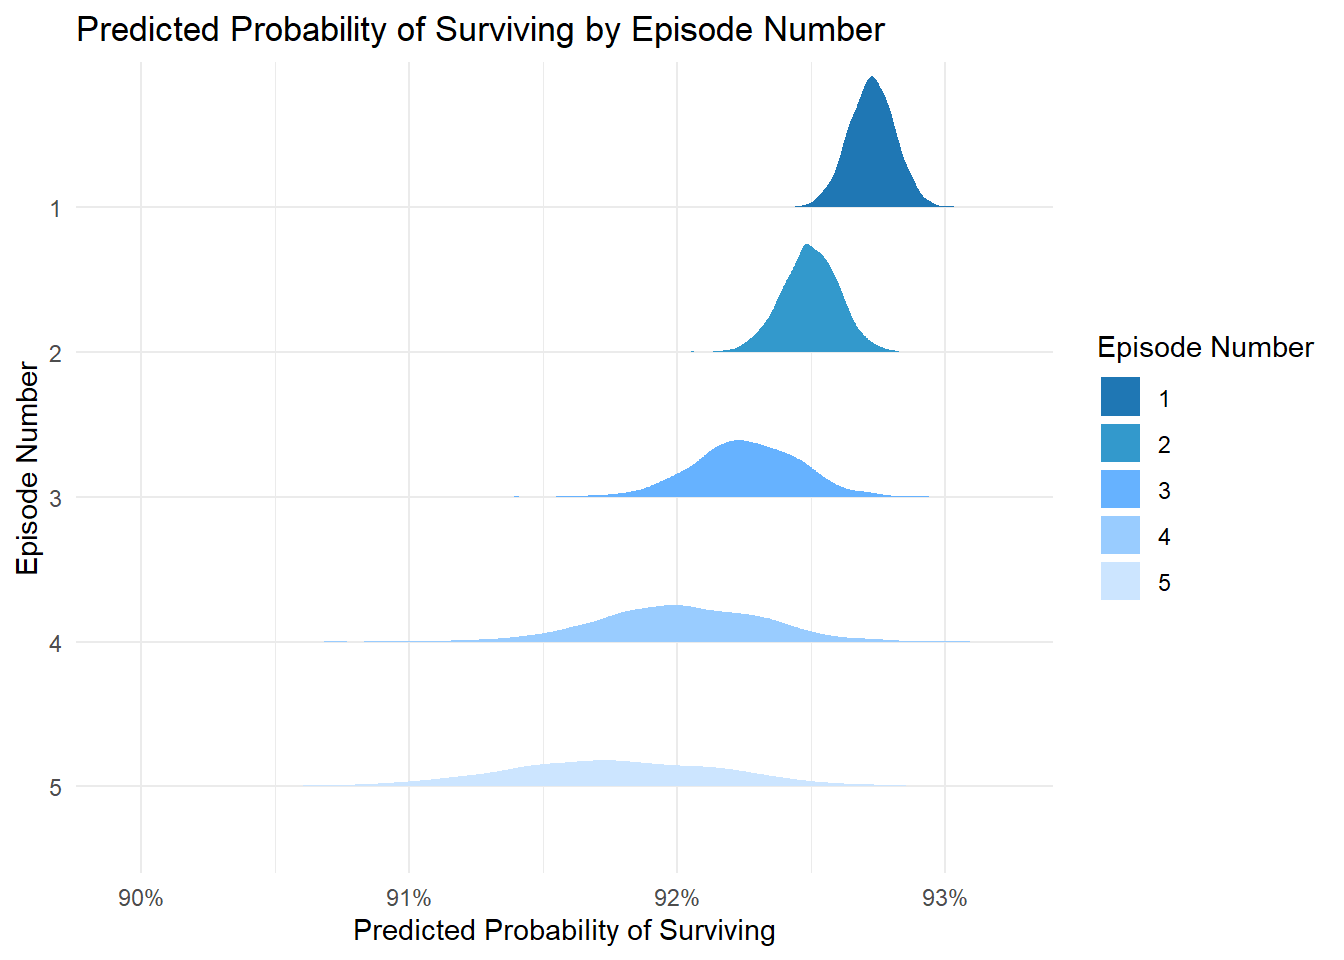
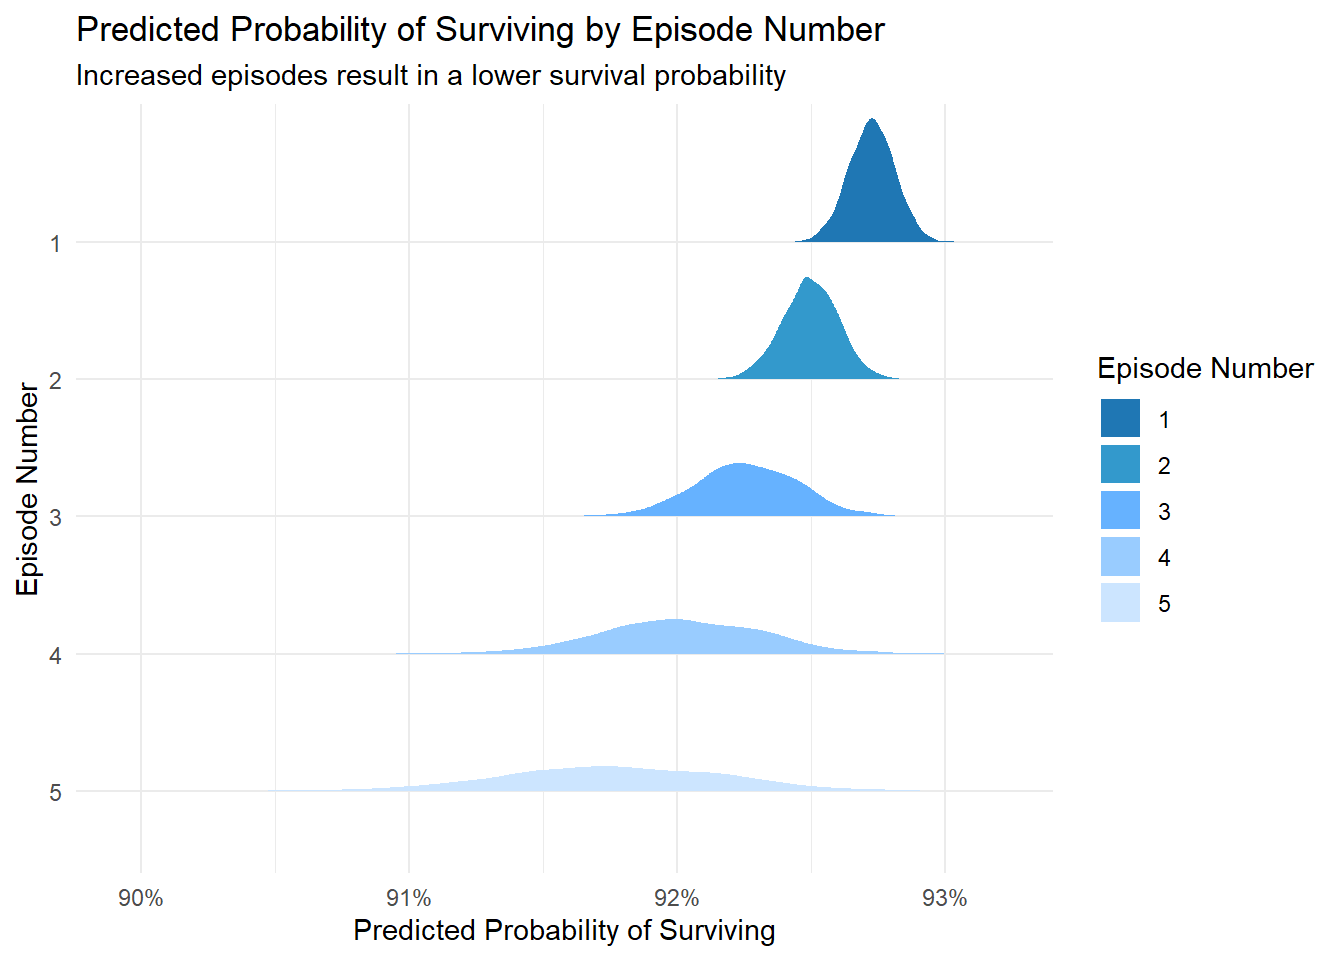
Built site for gh-pages

diff --git a/episode-graph.html b/episode-graph.html
@@ -767,14 +767,15 @@ contain underscores: term naming may be unreliable!</code></pre>
 <span id="cb7-18"><a href="#cb7-18" aria-hidden="true" tabindex="-1"></a>  <span class="co"># Add labels</span></span>
 <span id="cb7-19"><a href="#cb7-19" aria-hidden="true" tabindex="-1"></a>  <span class="fu">labs</span>(</span>
 <span id="cb7-20"><a href="#cb7-20" aria-hidden="true" tabindex="-1"></a>    <span class="at">title =</span> <span class="st">"Predicted Probability of Surviving by Episode Number"</span>,</span>
-<span id="cb7-21"><a href="#cb7-21" aria-hidden="true" tabindex="-1"></a>    <span class="at">x =</span> <span class="st">"Predicted Probability of Surviving"</span>,</span>
-<span id="cb7-22"><a href="#cb7-22" aria-hidden="true" tabindex="-1"></a>    <span class="at">y =</span> <span class="st">"Episode Number"</span>,</span>
-<span id="cb7-23"><a href="#cb7-23" aria-hidden="true" tabindex="-1"></a>    <span class="at">fill =</span> <span class="st">"Episode Number"</span></span>
-<span id="cb7-24"><a href="#cb7-24" aria-hidden="true" tabindex="-1"></a>  ) <span class="sc">+</span></span>
-<span id="cb7-25"><a href="#cb7-25" aria-hidden="true" tabindex="-1"></a>  <span class="co"># Change x-axis to percent format</span></span>
-<span id="cb7-26"><a href="#cb7-26" aria-hidden="true" tabindex="-1"></a>  <span class="fu">scale_x_continuous</span>(<span class="at">labels =</span> scales<span class="sc">::</span><span class="fu">percent_format</span>(<span class="at">accuracy =</span> <span class="dv">1</span>)) <span class="sc">+</span></span>
-<span id="cb7-27"><a href="#cb7-27" aria-hidden="true" tabindex="-1"></a>  <span class="co"># Change background to be cleaner</span></span>
-<span id="cb7-28"><a href="#cb7-28" aria-hidden="true" tabindex="-1"></a>  <span class="fu">theme_minimal</span>()</span></code><button title="Copy to Clipboard" class="code-copy-button"><i class="bi"></i></button></pre></div>
+<span id="cb7-21"><a href="#cb7-21" aria-hidden="true" tabindex="-1"></a>    <span class="at">subtitle =</span> <span class="st">"Increased episodes result in a lower survival probability"</span>,</span>
+<span id="cb7-22"><a href="#cb7-22" aria-hidden="true" tabindex="-1"></a>    <span class="at">x =</span> <span class="st">"Predicted Probability of Surviving"</span>,</span>
+<span id="cb7-23"><a href="#cb7-23" aria-hidden="true" tabindex="-1"></a>    <span class="at">y =</span> <span class="st">"Episode Number"</span>,</span>
+<span id="cb7-24"><a href="#cb7-24" aria-hidden="true" tabindex="-1"></a>    <span class="at">fill =</span> <span class="st">"Episode Number"</span></span>
+<span id="cb7-25"><a href="#cb7-25" aria-hidden="true" tabindex="-1"></a>  ) <span class="sc">+</span></span>
+<span id="cb7-26"><a href="#cb7-26" aria-hidden="true" tabindex="-1"></a>  <span class="co"># Change x-axis to percent format</span></span>
+<span id="cb7-27"><a href="#cb7-27" aria-hidden="true" tabindex="-1"></a>  <span class="fu">scale_x_continuous</span>(<span class="at">labels =</span> scales<span class="sc">::</span><span class="fu">percent_format</span>(<span class="at">accuracy =</span> <span class="dv">1</span>)) <span class="sc">+</span></span>
+<span id="cb7-28"><a href="#cb7-28" aria-hidden="true" tabindex="-1"></a>  <span class="co"># Change background to be cleaner</span></span>
+<span id="cb7-29"><a href="#cb7-29" aria-hidden="true" tabindex="-1"></a>  <span class="fu">theme_minimal</span>()</span></code><button title="Copy to Clipboard" class="code-copy-button"><i class="bi"></i></button></pre></div>
 <div class="cell-output-display">
 <div>
 <figure class="figure">
@@ -869,7 +870,7 @@ window.document.addEventListener("DOMContentLoaded", function (event) {
   });
     var localhostRegex = new RegExp(/^(?:http|https):\/\/localhost\:?[0-9]*\//);
     var mailtoRegex = new RegExp(/^mailto:/);
-      var filterRegex = new RegExp('/' + window.location.host + '/');
+      var filterRegex = new RegExp("https:\/\/sophiezla\.github\.io\/sepsis-survival-project\/");
     var isInternal = (href) => {
         return filterRegex.test(href) || localhostRegex.test(href) || mailtoRegex.test(href);
     }

diff --git a/index.html b/index.html
@@ -166,10 +166,10 @@ ul.task-list li input[type="checkbox"] {
 </header>
 
 
-<p>By using a dataset from Norway on 110,204 patient admissions of people with Sepsis from 2011 to 2012, we wanted to understand the probability of survival based upon the factors of numbers of previous episodes of Sepsis and gender. The data was sourced from Kaggle on containing deidentified data on hospitalized patients. It includes the variables of sex, age, episode number and survival outcome.Though healthcare has dramatically changed over the years, we believe for these predictions to hold true. We used a logistic regression model with the variables of age (numeric variable), sex (categorical variable) and episode number (numeric) set to the outcome of the probability of survival for the i-th individual. From modeling the variables as a logistic function to the outcome, we discovered that being female can increases the odds of survival by 18%, higher age decreases the probability of survival by 4%, while higher episode numbers have slightly lower chance of survival of about 3%, though it may be as much as 5% or as low as 0%.</p>
-<section id="sepsis-survival-rate" class="level2">
-<h2 class="anchored" data-anchor-id="sepsis-survival-rate">Sepsis Survival Rate:</h2>
-<p><small>(Episode number refers to the number of times a patient has had sepsis)</small></p>
+<p>By using a data set from Norway on 110,204 patient admissions of people with Sepsis from 2011 to 2012, we wanted to understand the probability of survival based upon the factors of numbers of previous episodes of Sepsis and gender. The data was sourced from Kaggle on containing de-identified data on hospitalized patients. It includes the variables of sex, age, episode number and survival outcome.Though healthcare has dramatically changed over the years, we believe for these predictions to hold true. We used a logistic regression model with the variables of age (numeric variable), sex (categorical variable) and episode number (numeric) set to the outcome of the probability of survival for the i-th individual. From modeling the variables as a logistic function to the outcome, we discovered that being female can increases the odds of survival by 18%, higher age decreases the probability of survival by 4%, while higher episode numbers have slightly lower chance of survival of about 3%, though it may be as much as 5% or as low as 0%.</p>
+<section id="sepsis-survival-rate" class="level3">
+<h3 class="anchored" data-anchor-id="sepsis-survival-rate">Sepsis Survival Rate:</h3>
+<p><small>(Episode number refers to the number of times a patient has had Sepsis)</small></p>
 <div class="cell">
 <div class="cell-output-display">
 <div>
@@ -180,8 +180,8 @@ ul.task-list li input[type="checkbox"] {
 </div>
 </div>
 </section>
-<section id="overview-of-sepsis" class="level2">
-<h2 class="anchored" data-anchor-id="overview-of-sepsis">Overview of Sepsis:</h2>
+<section id="overview-of-sepsis" class="level3">
+<h3 class="anchored" data-anchor-id="overview-of-sepsis">Overview of Sepsis:</h3>
 <p>Sepsis is a dangerous condition that can occur to anyone. It happens when the body’s immune system responds improperly to infection and damages healthy tissue. This can lead to organ failure, widespread inflammation and possibly death. Sepsis itself is not a disease, but rather caused by other infectious diseases.</p>
 <p>Important symptoms to lookout for are…</p>
 <pre><code>-  Rashes

diff --git a/episodes.html b/episodes.html
@@ -7,7 +7,7 @@
 <meta name="viewport" content="width=device-width, initial-scale=1.0, user-scalable=yes">
 
 
-<title>Sepsis Survival Predictions - Episodes</title>
+<title>Sepsis Survival Predictions - Episode Numbers</title>
 <style>
 code{white-space: pre-wrap;}
 span.smallcaps{font-variant: small-caps;}
@@ -171,7 +171,7 @@ window.Quarto = {
 
 <header id="title-block-header" class="quarto-title-block default">
 <div class="quarto-title">
-<h1 class="title">Episodes</h1>
+<h1 class="title">Episode Numbers</h1>
 </div>
 
 
@@ -188,6 +188,9 @@ window.Quarto = {
 </header>
 
 
+<p>To see the individual effects of the variables on survival rate, we modeled the variable of the number of episodes using the following equation…</p>
+<p><span class="math display">\[ \text{logit}(\pi_i) = \beta_0 + \beta_1 \cdot \text{episode\_number}_i \]</span></p>
+<p>We receive the resulting effect…</p>
 <div class="cell">
 <div class="cell-output-display">
 <div id="rbtcldcmep" style="padding-left:0px;padding-right:0px;padding-top:10px;padding-bottom:10px;overflow-x:auto;overflow-y:auto;width:auto;height:auto;">
@@ -675,6 +678,7 @@ window.Quarto = {
 </div>
 </div>
 </div>
+<p>We graph the model to see the clear trend of lower survival rates with more episodes.</p>
 <div class="cell">
 <div class="cell-output-display">
 <div>
@@ -684,7 +688,6 @@ window.Quarto = {
 </div>
 </div>
 </div>
-<p><span class="math display">\[ \text{logit}(\pi_i) = \beta_0 + \beta_1 \cdot \text{episode\_number}_i \]</span></p>
 
 
 
@@ -770,7 +773,7 @@ window.document.addEventListener("DOMContentLoaded", function (event) {
   });
     var localhostRegex = new RegExp(/^(?:http|https):\/\/localhost\:?[0-9]*\//);
     var mailtoRegex = new RegExp(/^mailto:/);
-      var filterRegex = new RegExp('/' + window.location.host + '/');
+      var filterRegex = new RegExp("https:\/\/sophiezla\.github\.io\/sepsis-survival-project\/");
     var isInternal = (href) => {
         return filterRegex.test(href) || localhostRegex.test(href) || mailtoRegex.test(href);
     }

diff --git a/gender.html b/gender.html
@@ -7,7 +7,7 @@
 <meta name="viewport" content="width=device-width, initial-scale=1.0, user-scalable=yes">
 
 
-<title>Sepsis Survival Predictions - Gender</title>
+<title>Sepsis Survival Predictions - Genders</title>
 <style>
 code{white-space: pre-wrap;}
 span.smallcaps{font-variant: small-caps;}
@@ -171,7 +171,7 @@ window.Quarto = {
 
 <header id="title-block-header" class="quarto-title-block default">
 <div class="quarto-title">
-<h1 class="title">Gender</h1>
+<h1 class="title">Genders</h1>
 </div>
 
 
@@ -188,6 +188,9 @@ window.Quarto = {
 </header>
 
 
+<p>We used the following equation to model the effects of gender on the survival rate…</p>
+<p><span class="math display">\[\text{logit}(\pi_i) = \beta_0 + \beta_1 \cdot \text{gender}_{i,\text{Male}}\]</span></p>
+<p>From the results we see that females have a slightly higher chance of survival than males.</p>
 <div class="cell">
 <div class="cell-output-display">
 <div id="gpifrnyfhj" style="padding-left:0px;padding-right:0px;padding-top:10px;padding-bottom:10px;overflow-x:auto;overflow-y:auto;width:auto;height:auto;">
@@ -687,6 +690,7 @@ window.Quarto = {
 </div>
 </div>
 </div>
+<p>The model is then graphed using draws in order to visualize the probabilities.</p>
 <div class="cell">
 <div class="cell-output-display">
 <div>
@@ -696,7 +700,6 @@ window.Quarto = {
 </div>
 </div>
 </div>
-<p><span class="math display">\[\text{logit}(\pi_i) = \beta_0 + \beta_1 \cdot \text{gender}_{i,\text{Male}}\]</span></p>
 
 
 
@@ -782,7 +785,7 @@ window.document.addEventListener("DOMContentLoaded", function (event) {
   });
     var localhostRegex = new RegExp(/^(?:http|https):\/\/localhost\:?[0-9]*\//);
     var mailtoRegex = new RegExp(/^mailto:/);
-      var filterRegex = new RegExp('/' + window.location.host + '/');
+      var filterRegex = new RegExp("https:\/\/sophiezla\.github\.io\/sepsis-survival-project\/");
     var isInternal = (href) => {
         return filterRegex.test(href) || localhostRegex.test(href) || mailtoRegex.test(href);
     }

diff --git a/ages.html b/ages.html
@@ -7,7 +7,7 @@
 <meta name="viewport" content="width=device-width, initial-scale=1.0, user-scalable=yes">
 
 
-<title>Sepsis Survival Predictions - Age</title>
+<title>Sepsis Survival Predictions - Ages</title>
 <style>
 code{white-space: pre-wrap;}
 span.smallcaps{font-variant: small-caps;}
@@ -171,7 +171,7 @@ window.Quarto = {
 
 <header id="title-block-header" class="quarto-title-block default">
 <div class="quarto-title">
-<h1 class="title">Age</h1>
+<h1 class="title">Ages</h1>
 </div>
 
 
@@ -188,6 +188,9 @@ window.Quarto = {
 </header>
 
 
+<p>To see the effect of age we use the following equation…</p>
+<p><span class="math display">\[\text{logit}(\pi_i) = \beta_0 + \beta_1 \cdot \text{age}_i \]</span></p>
+<p>From this we see that for every additional year of age, survival rate decreases.</p>
 <div class="cell">
 <div class="cell-output-display">
 <div id="euchhkcdpd" style="padding-left:0px;padding-right:0px;padding-top:10px;padding-bottom:10px;overflow-x:auto;overflow-y:auto;width:auto;height:auto;">
@@ -675,6 +678,7 @@ window.Quarto = {
 </div>
 </div>
 </div>
+<p>The model, once graphed mimics a parabolic curve.</p>
 <div class="cell">
 <div class="cell-output-display">
 <div>
@@ -684,7 +688,6 @@ window.Quarto = {
 </div>
 </div>
 </div>
-<p><span class="math display">\[\text{logit}(\pi_i) = \beta_0 + \beta_1 \cdot \text{age}_i \]</span></p>
 
 
 
@@ -770,7 +773,7 @@ window.document.addEventListener("DOMContentLoaded", function (event) {
   });
     var localhostRegex = new RegExp(/^(?:http|https):\/\/localhost\:?[0-9]*\//);
     var mailtoRegex = new RegExp(/^mailto:/);
-      var filterRegex = new RegExp('/' + window.location.host + '/');
+      var filterRegex = new RegExp("https:\/\/sophiezla\.github\.io\/sepsis-survival-project\/");
     var isInternal = (href) => {
         return filterRegex.test(href) || localhostRegex.test(href) || mailtoRegex.test(href);
     }

diff --git a/model.html b/model.html
@@ -188,9 +188,11 @@ window.Quarto = {
 </header>
 
 
+<p>To model the effects of different variables on the probability of survival, we used the following equation…</p>
 <p><span class="math display">\[
 \text{logit}(\pi_i) = \beta_0 + \beta_1 \cdot \text{age}_i + \beta_2 \cdot \text{sex}_{i,\text{Male}} + \beta_3 \cdot \text{episode\_number}_i
 \]</span></p>
+<p>We recieve the following results indicating a positive effect on the probability of survival if one is female, while there is a decrease in the probability if one is of older age or has more episode numbers…</p>
 <div class="cell">
 <div class="cell-output-display">
 <div id="ccdugzerdc" style="padding-left:0px;padding-right:0px;padding-top:10px;padding-bottom:10px;overflow-x:auto;overflow-y:auto;width:auto;height:auto;">
@@ -700,6 +702,7 @@ window.Quarto = {
 </div>
 </div>
 </div>
+<p>To visually interpret the survival probability, the model is graphed by taking draws and using the average age of patients.</p>
 <div class="cell">
 <div class="cell-output-display">
 <div>
@@ -709,6 +712,7 @@ window.Quarto = {
 </div>
 </div>
 </div>
+<p>From this we see that females of younger age with less episode numbers have the highest likelihood of survival while males of older age with more episode numbers would have the lowest likelihood of survival.</p>
 
 
 
@@ -794,7 +798,7 @@ window.document.addEventListener("DOMContentLoaded", function (event) {
   });
     var localhostRegex = new RegExp(/^(?:http|https):\/\/localhost\:?[0-9]*\//);
     var mailtoRegex = new RegExp(/^mailto:/);
-      var filterRegex = new RegExp('/' + window.location.host + '/');
+      var filterRegex = new RegExp("https:\/\/sophiezla\.github\.io\/sepsis-survival-project\/");
     var isInternal = (href) => {
         return filterRegex.test(href) || localhostRegex.test(href) || mailtoRegex.test(href);
     }

diff --git a/about.html b/about.html
@@ -262,7 +262,7 @@ window.document.addEventListener("DOMContentLoaded", function (event) {
   });
     var localhostRegex = new RegExp(/^(?:http|https):\/\/localhost\:?[0-9]*\//);
     var mailtoRegex = new RegExp(/^mailto:/);
-      var filterRegex = new RegExp('/' + window.location.host + '/');
+      var filterRegex = new RegExp("https:\/\/sophiezla\.github\.io\/sepsis-survival-project\/");
     var isInternal = (href) => {
         return filterRegex.test(href) || localhostRegex.test(href) || mailtoRegex.test(href);
     }

diff --git a/age-graph.html b/age-graph.html
@@ -770,7 +770,7 @@ window.document.addEventListener("DOMContentLoaded", function (event) {
   });
     var localhostRegex = new RegExp(/^(?:http|https):\/\/localhost\:?[0-9]*\//);
     var mailtoRegex = new RegExp(/^mailto:/);
-      var filterRegex = new RegExp('/' + window.location.host + '/');
+      var filterRegex = new RegExp("https:\/\/sophiezla\.github\.io\/sepsis-survival-project\/");
     var isInternal = (href) => {
         return filterRegex.test(href) || localhostRegex.test(href) || mailtoRegex.test(href);
     }

diff --git a/gender-graph.html b/gender-graph.html
@@ -782,7 +782,7 @@ window.document.addEventListener("DOMContentLoaded", function (event) {
   });
     var localhostRegex = new RegExp(/^(?:http|https):\/\/localhost\:?[0-9]*\//);
     var mailtoRegex = new RegExp(/^mailto:/);
-      var filterRegex = new RegExp('/' + window.location.host + '/');
+      var filterRegex = new RegExp("https:\/\/sophiezla\.github\.io\/sepsis-survival-project\/");
     var isInternal = (href) => {
         return filterRegex.test(href) || localhostRegex.test(href) || mailtoRegex.test(href);
     }

diff --git a/graphs.html b/graphs.html
@@ -245,7 +245,7 @@ window.document.addEventListener("DOMContentLoaded", function (event) {
   });
     var localhostRegex = new RegExp(/^(?:http|https):\/\/localhost\:?[0-9]*\//);
     var mailtoRegex = new RegExp(/^mailto:/);
-      var filterRegex = new RegExp('/' + window.location.host + '/');
+      var filterRegex = new RegExp("https:\/\/sophiezla\.github\.io\/sepsis-survival-project\/");
     var isInternal = (href) => {
         return filterRegex.test(href) || localhostRegex.test(href) || mailtoRegex.test(href);
     }

diff --git a/main-graph.html b/main-graph.html
@@ -798,7 +798,7 @@ window.document.addEventListener("DOMContentLoaded", function (event) {
   });
     var localhostRegex = new RegExp(/^(?:http|https):\/\/localhost\:?[0-9]*\//);
     var mailtoRegex = new RegExp(/^mailto:/);
-      var filterRegex = new RegExp('/' + window.location.host + '/');
+      var filterRegex = new RegExp("https:\/\/sophiezla\.github\.io\/sepsis-survival-project\/");
     var isInternal = (href) => {
         return filterRegex.test(href) || localhostRegex.test(href) || mailtoRegex.test(href);
     }

diff --git a/sources.html b/sources.html
@@ -252,7 +252,7 @@ window.document.addEventListener("DOMContentLoaded", function (event) {
   });
     var localhostRegex = new RegExp(/^(?:http|https):\/\/localhost\:?[0-9]*\//);
     var mailtoRegex = new RegExp(/^mailto:/);
-      var filterRegex = new RegExp('/' + window.location.host + '/');
+      var filterRegex = new RegExp("https:\/\/sophiezla\.github\.io\/sepsis-survival-project\/");
     var isInternal = (href) => {
         return filterRegex.test(href) || localhostRegex.test(href) || mailtoRegex.test(href);
     }
